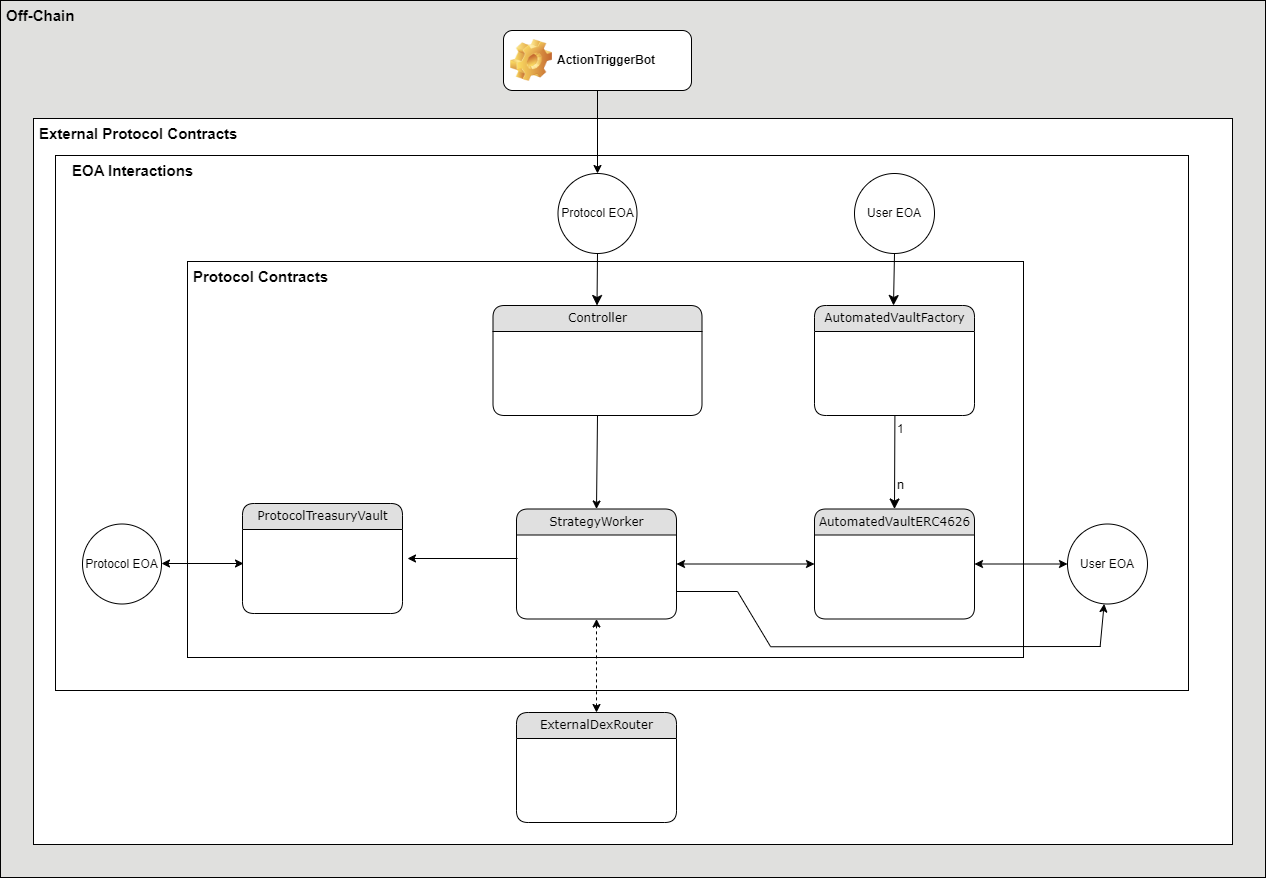
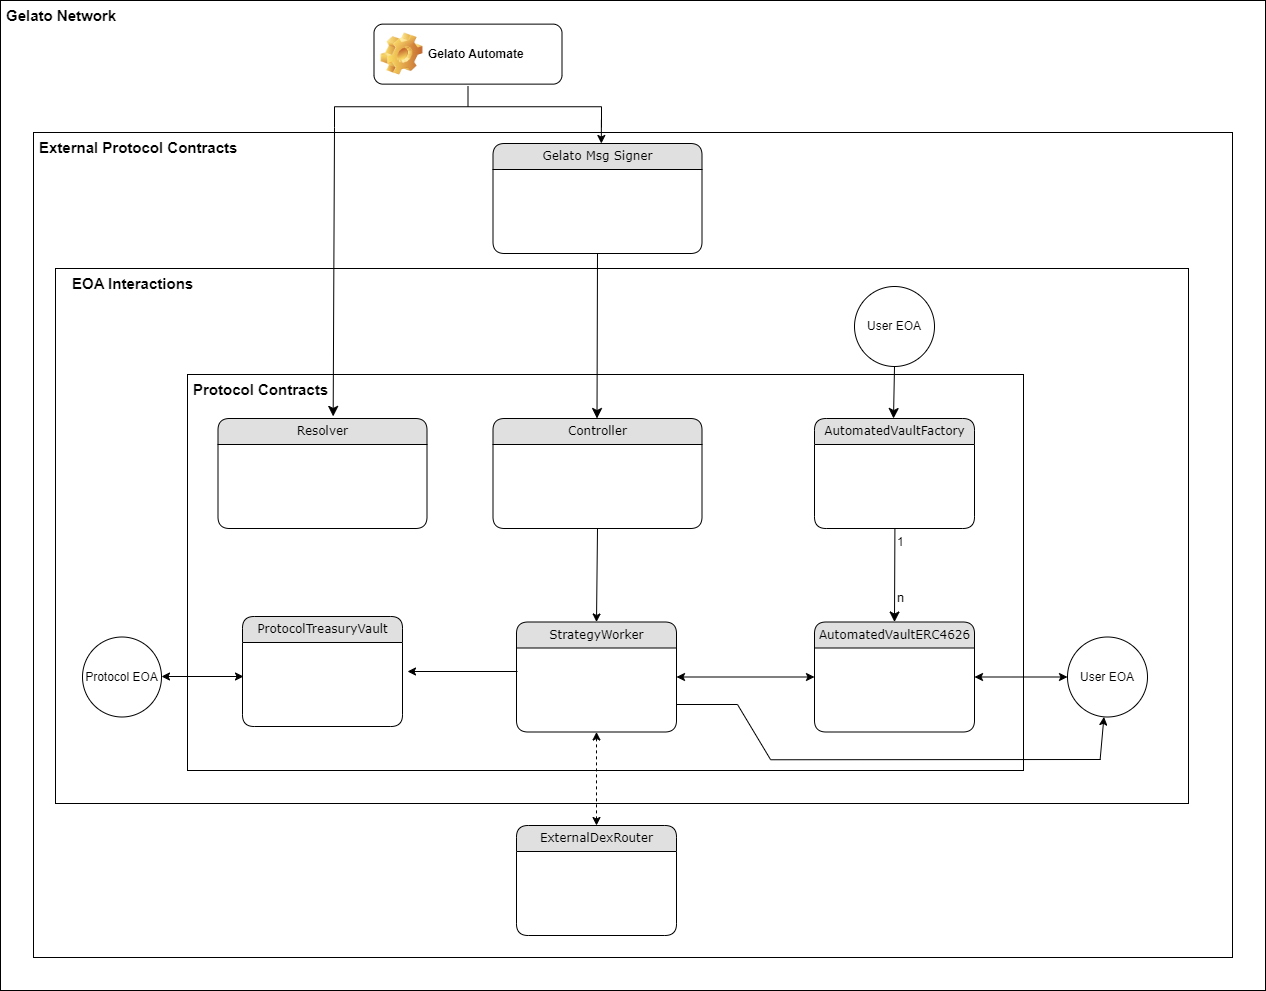
:sparles: update docs

diff --git a/README.md b/README.md
@@ -11,6 +11,7 @@
 - **StrategyWorker:** 0xFf5694903A22a7Ca13e25bc5C2aCA37fb91ad4f5
 - **AutomatedVaultsFactory:** 0x57da7DFAD549e8fB003a8C5373010F17deb3fc7F
 - **Resolver:** 0x7A00964A733250d6a65154bC79414Bc31b5161DC
+- **Gelato Msg Sender:** 0xf454b2cb8c149a64acde77d8b74b10019a21e2bf
 
 # Project Setup Guide
 
